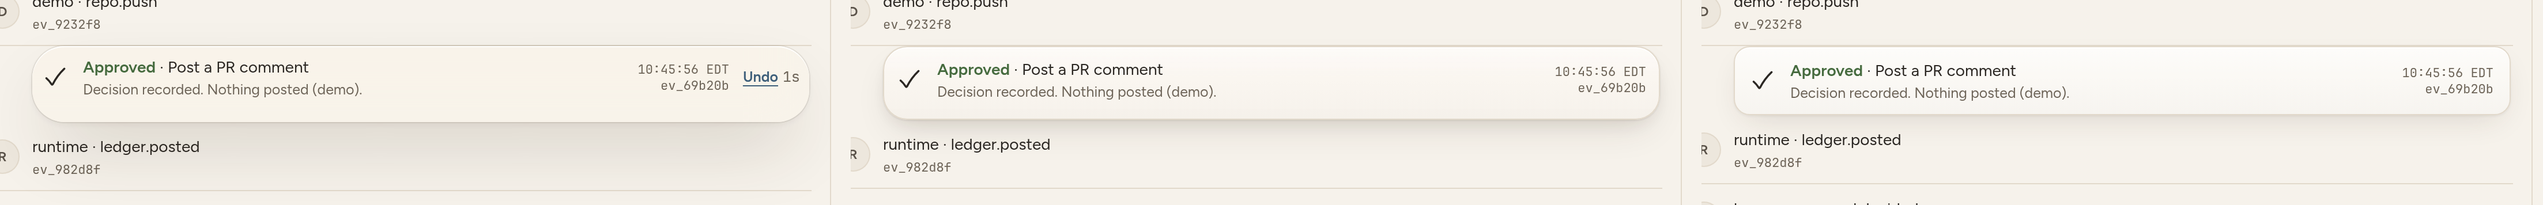
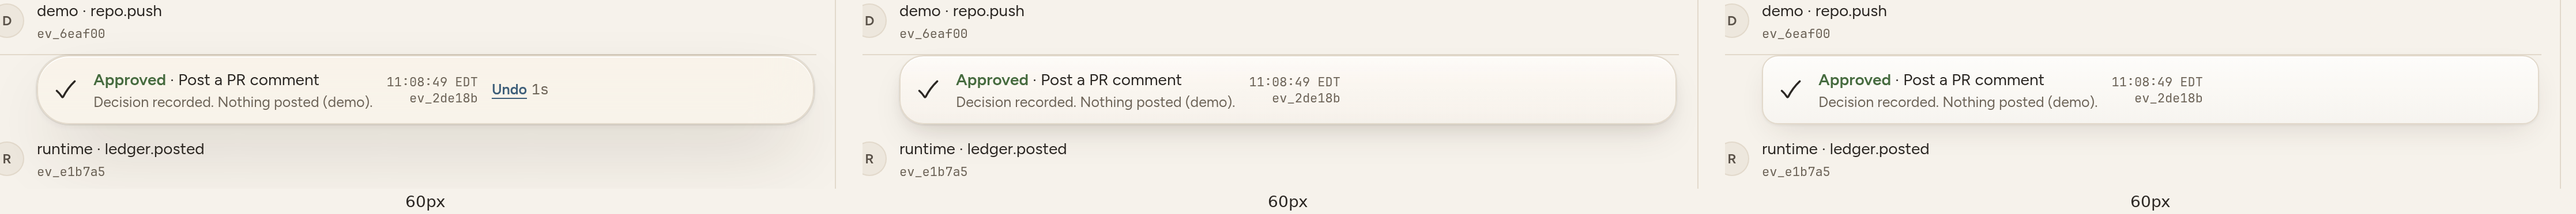
Keep the receipt box still when undo closes.
The undo-glass receipt uses the paper padding and border, the rise animation no longer holds the blur, and the approve check stays mounted while it draws. Key and gallery strokes keep their weight, and the hold durations come from the tokens.

diff --git a/apps/desktop/src/lib/ApprovalCard.svelte b/apps/desktop/src/lib/ApprovalCard.svelte
@@ -92,7 +92,7 @@
   let holdSealed = false;
 
   const locked = $derived(busy || committing !== null);
-  const duration = $derived(holdDurationMs(effect, holdMs ?? tokenMs("--dur-hold", 600)));
+  const duration = $derived(holdDurationMs(effect, holdMs));
   const showUndo = $derived(
     !pending &&
       !approval.committed &&
@@ -637,7 +637,7 @@
 <!-- svelte-ignore a11y_no_noninteractive_tabindex -->
 <article
   {@attach bindCard}
-  class={["card", floating ? "glass" : "paper", playRise && "rise"]}
+  class={["card", floating ? "glass" : "paper", !pending && "receipt", playRise && "rise"]}
   style:--arrow-delay={ARROW_DELAY}
   style:--arrow-head-draw={ARROW_HEAD_DRAW}
   style:--reduced-fade={REDUCED_FADE_EASE}
@@ -773,7 +773,7 @@
             onkeydown={onApproveKeydown}
             onclick={() => void onApproveClick()}
           >
-            {#if holdKind === "approve"}
+            {#if holdKind === "approve" || checkOffset < 1}
               <svg class="check" viewBox="0 0 24 24" aria-hidden="true">
                 <path class="pen trace" pathLength="1" d={CHECK_PATH} style:stroke-dashoffset={checkOffset} />
               </svg>
@@ -875,9 +875,16 @@
     padding: var(--s-2) var(--s-2) var(--s-5);
   }
 
+  .card.glass.receipt {
+    padding: 10px 14px 10px 12px;
+    border: 1px solid var(--hairline);
+    min-height: 52px;
+  }
+
   .card.paper {
     background: var(--convex), var(--paper-raised);
-    backdrop-filter: none;
+    -webkit-backdrop-filter: blur(0px) saturate(100%);
+    backdrop-filter: blur(0px) saturate(100%);
     border-radius: var(--r-md);
     border: 1px solid var(--hairline);
     box-shadow: var(--highlight-top), var(--shadow-puff);
@@ -891,7 +898,7 @@
   }
 
   .card.rise {
-    animation: rise var(--dur-stage) var(--ease-out) both;
+    animation: rise var(--dur-stage) var(--ease-out) backwards;
   }
 
   @keyframes rise {
@@ -1122,6 +1129,10 @@
     stroke-width: var(--icon-stroke);
     stroke-linecap: round;
     stroke-linejoin: round;
+  }
+
+  .key path {
+    vector-effect: non-scaling-stroke;
   }
 
   .key {
@@ -1508,10 +1519,6 @@
     .approve:active:not(:disabled),
     .deny:active:not(:disabled) {
       transition: none;
-    }
-
-    .approve:active:not(:disabled) {
-      background: color-mix(in oklab, black 18%, var(--ink-1));
     }
 
     .deny:active:not(:disabled) {

diff --git a/apps/desktop/src/lib/api.ts b/apps/desktop/src/lib/api.ts
@@ -1,11 +1,12 @@
+import { tokenMs } from "./cssTokens";
+
 export type EffectClass = "read" | "write_local" | "external" | "destructive";
 export type Decision = "approve" | "deny";
 export type ApprovalStatus = "pending" | "approved" | "denied" | "expired";
 
+/** User hold setting. The locked range is 400 to 1500. */
 export const HOLD_MS_MIN = 400;
 export const HOLD_MS_MAX = 1500;
-export const HOLD_MS_DEFAULT = 600;
-export const HOLD_MS_DESTRUCTIVE = 1200;
 export const SEEN_LOCK_MS = 800;
 
 export interface Agent {
@@ -181,15 +182,15 @@ function sentenceCase(action: string): string {
 
 export function clampHoldMs(ms: number): number {
   if (!Number.isFinite(ms)) {
-    return HOLD_MS_DEFAULT;
+    return tokenMs("--dur-hold", HOLD_MS_MIN);
   }
   return Math.min(HOLD_MS_MAX, Math.max(HOLD_MS_MIN, Math.round(ms)));
 }
 
-export function holdDurationMs(effect: EffectClass | null, setting: number): number {
-  const base = clampHoldMs(setting);
+export function holdDurationMs(effect: EffectClass | null, setting?: number): number {
+  const base = setting == null ? tokenMs("--dur-hold", HOLD_MS_MIN) : clampHoldMs(setting);
   if (effect === "destructive") {
-    return clampHoldMs(Math.max(base, HOLD_MS_DESTRUCTIVE));
+    return clampHoldMs(Math.max(base, tokenMs("--dur-hold-destructive", HOLD_MS_MAX)));
   }
   return base;
 }

diff --git a/apps/desktop/src/App.svelte b/apps/desktop/src/App.svelte
@@ -392,15 +392,9 @@
               <h2>{reviewer.name}</h2>
               {#if reviewer.status === "working"}
                 <span class="agent-status">{reviewer.status}</span>
-              {:else if filingUndo}
-                <span class="agent-status">
-                  {#if filingSeconds > 0}
-                    filing · undo {filingSeconds}s
-                  {:else}
-                    filing
-                  {/if}
-                </span>
-              {:else if reviewer.status === "blocked"}
+              {:else if filingUndo && filingSeconds > 0}
+                <span class="agent-status">filing · undo {filingSeconds}s</span>
+              {:else if reviewer.status === "blocked" && !filingUndo}
                 <span class="agent-status need">
                   <span class="need-dot" aria-hidden="true"></span>
                   {reviewer.status}

diff --git a/apps/desktop/src/lib/IconGallery.svelte b/apps/desktop/src/lib/IconGallery.svelte
@@ -90,6 +90,10 @@
     stroke-linejoin: round;
   }
 
+  svg path {
+    vector-effect: non-scaling-stroke;
+  }
+
   svg.line {
     stroke-width: var(--icon-stroke);
   }
